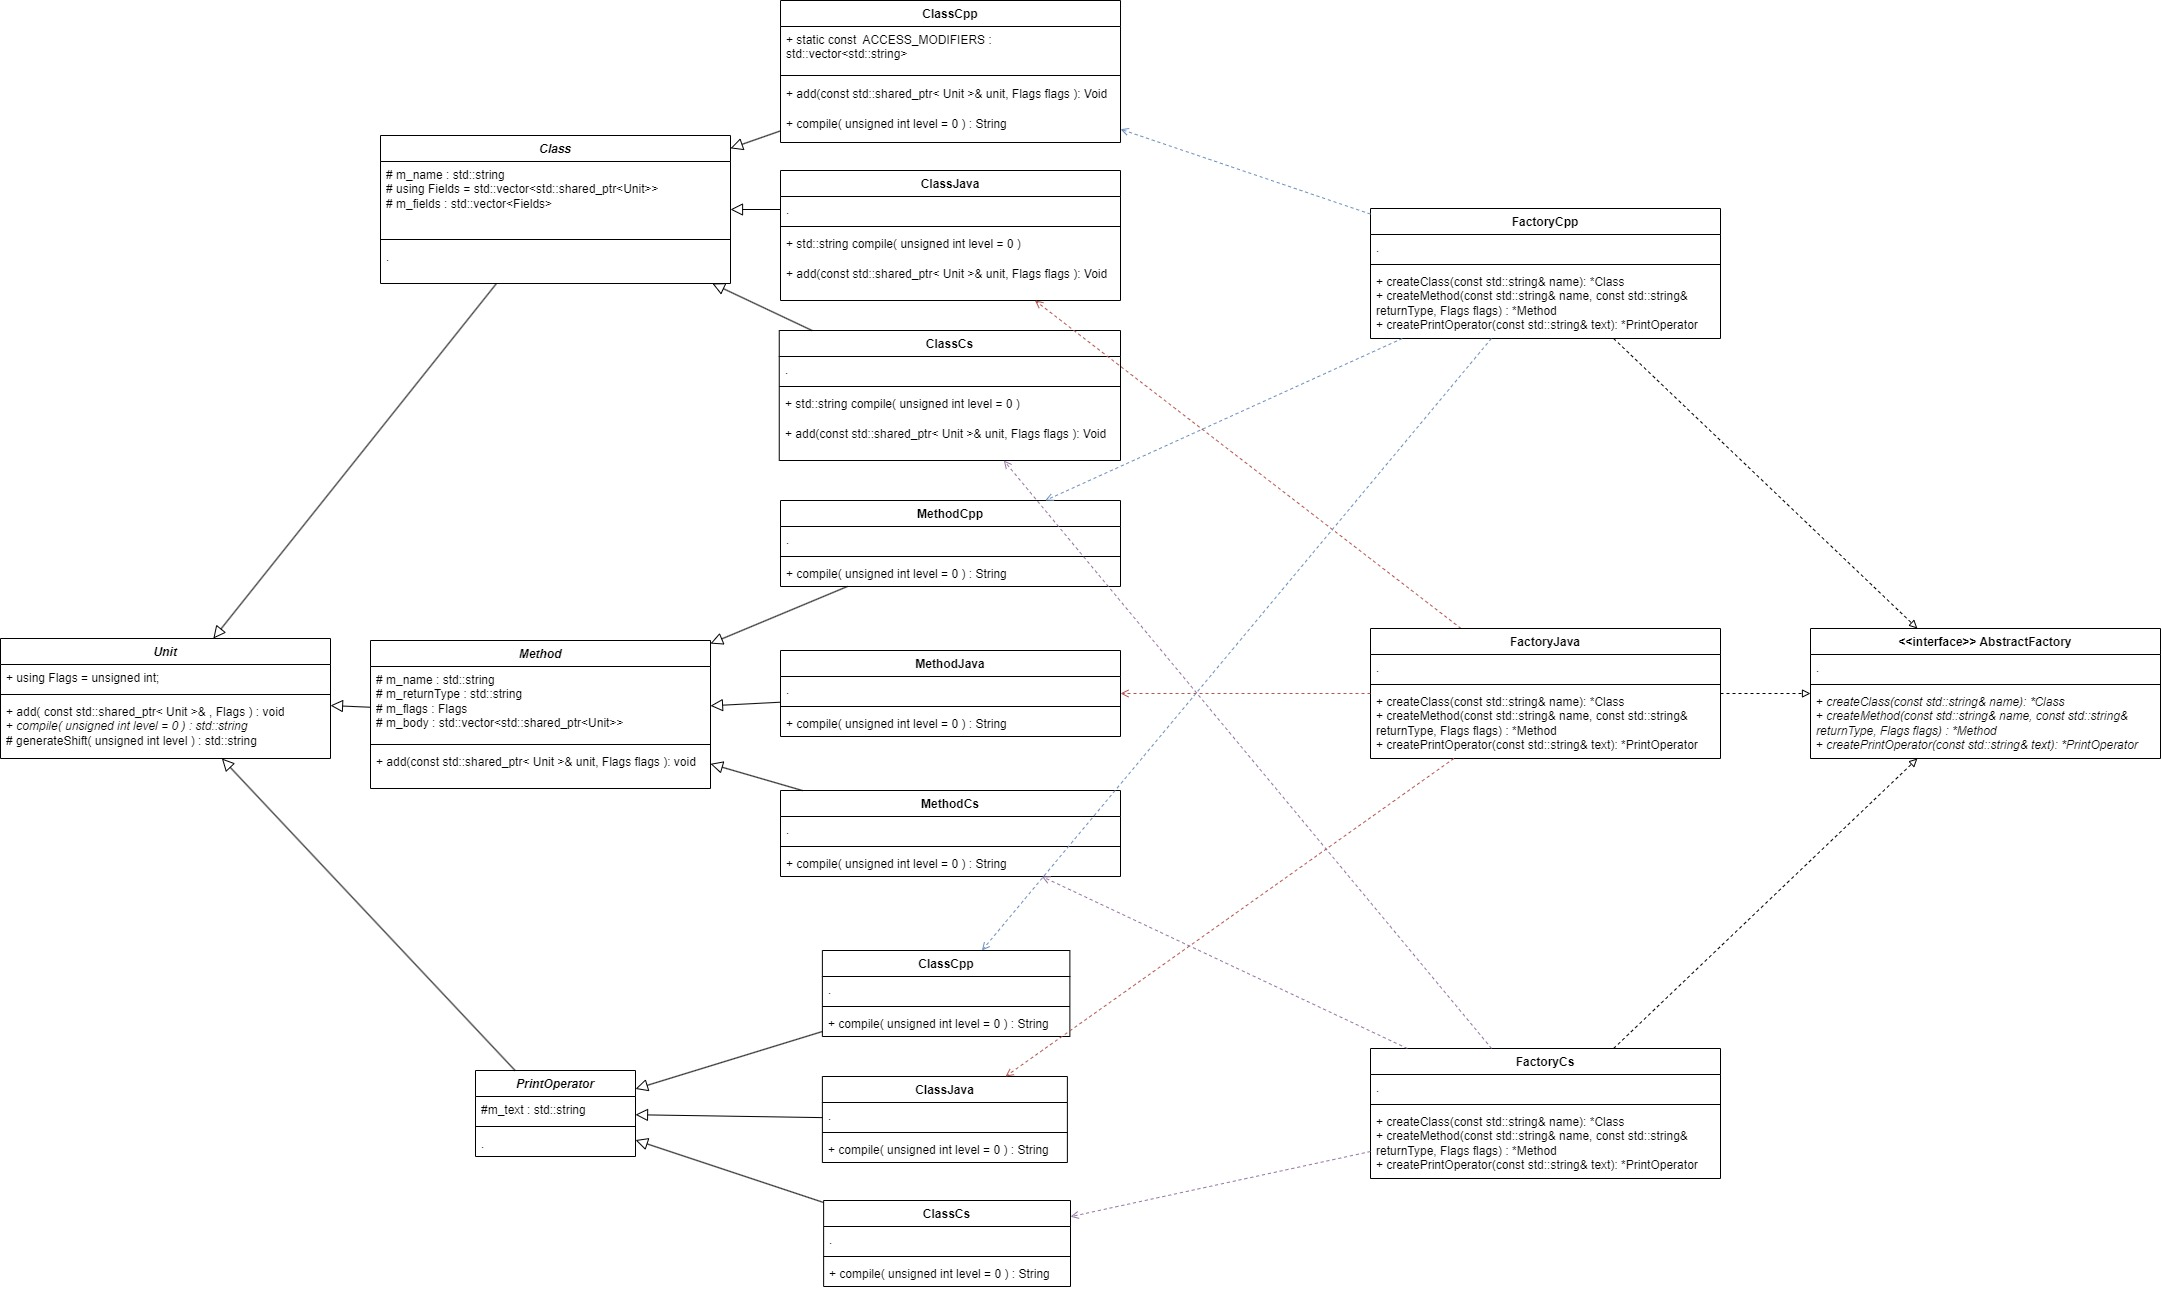
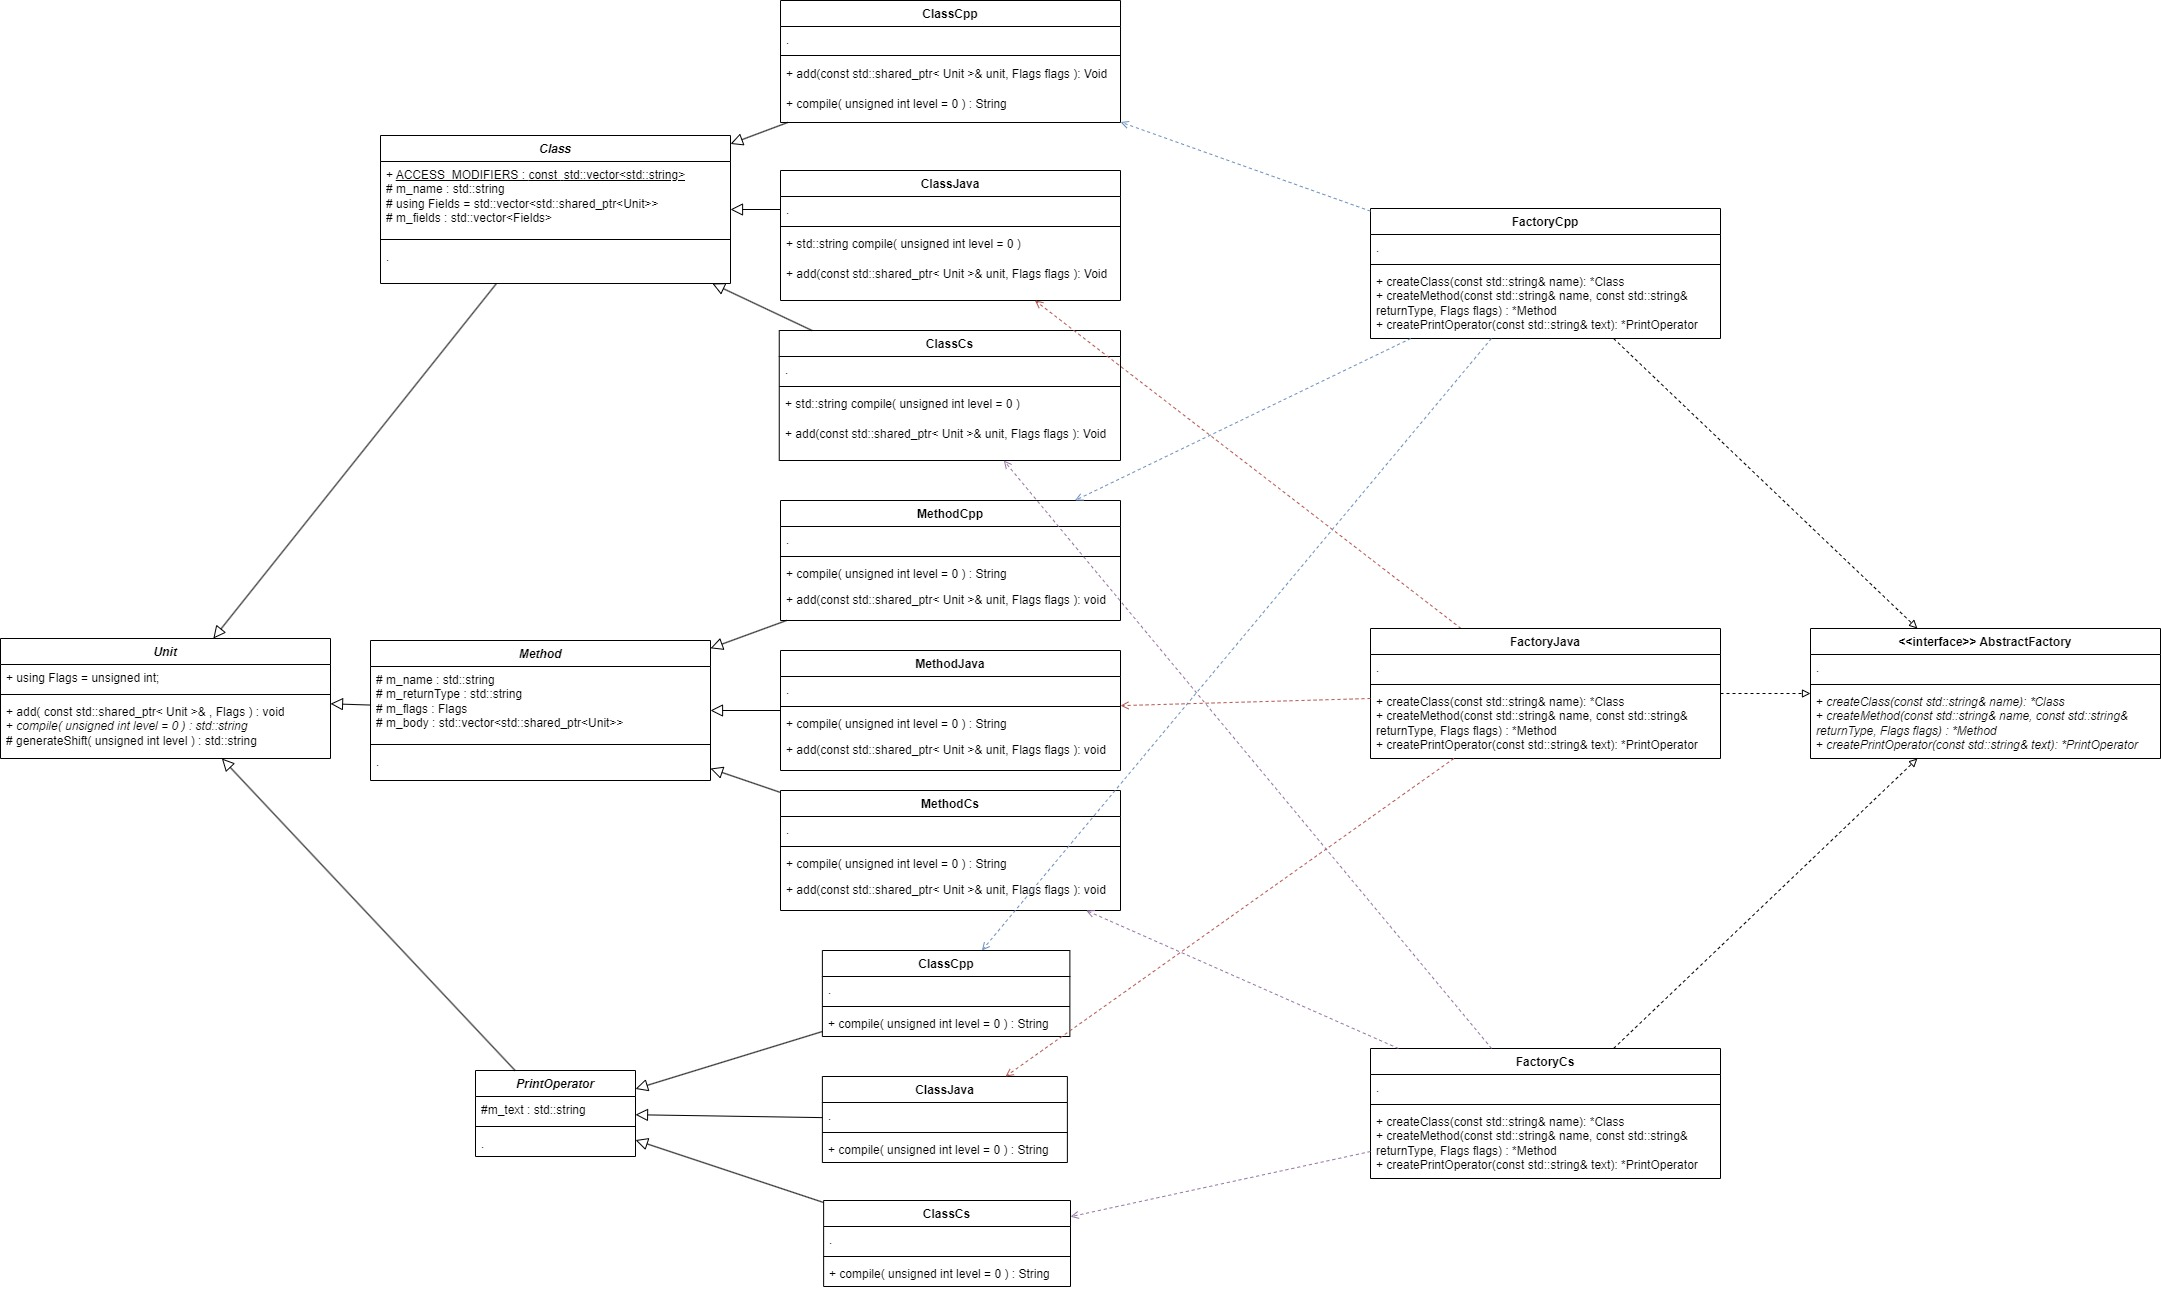
put add in children

diff --git a/classJava.h b/classJava.h
@@ -8,7 +8,7 @@
 class ClassJava : public Class
 {
 public:
-    static const std::vector< std::string > ACCESS_MODIFIERS ;   // инициализирован вне класса
+    //static const std::vector< std::string > ACCESS_MODIFIERS ;   // инициализирован вне класса
 
     explicit ClassJava(const std::string &name): Class(name, ACCESS_MODIFIERS.size())  {    // конструктор.  инициализирует имя класса
         m_fields.resize( ACCESS_MODIFIERS.size() );     // изменяет размер вектора на размер равный количеству модификаторов доступа
@@ -17,13 +17,14 @@ public:
 
     void add( const std::shared_ptr< Unit >& unit, Flags flags ) override    // функция для добавления член-данного или член-функции с своим модификатором доступа
     {
-        int accessModifier = PRIVATE;   // = 0
-        if( flags < ACCESS_MODIFIERS.size() )   // ? Проверяем что модификатор доступа является корректным
-        {
-            accessModifier = flags; // Ставим соответствующий модификатор доступа
+        int accessModifier = PRIVATE;   // по умолчанию private
+        if (flags & PROTECTED) {
+            accessModifier = PROTECTED;
         }
-
-        m_fields[ accessModifier ].push_back( unit );   // Заготавливаем для компиляции под определенный модификатор доступа
+        else if (flags & PUBLIC) {
+            accessModifier = PUBLIC;
+        }
+        m_fields[ accessModifier ].push_back( unit );
         /*
         * В условии и последующей строчке с push_back реализовано добавление член-данных и член-функций под определеннным модификатором.
         * Если отказаться от них, то перед каждым член-данным и член-функцией будет писаться модификатор доступа. Это как миниммум не похоже
@@ -59,6 +60,6 @@ private:
                                     // модификатору доступа.
 };
 
-const std::vector< std::string > ClassJava::ACCESS_MODIFIERS = { "public", "protected", "private" };
+//const std::vector< std::string > ClassJava::ACCESS_MODIFIERS = { "public", "protected", "private" };
 
 #endif // CLASSJAVA_H

diff --git a/classCs.h b/classCs.h
@@ -7,7 +7,7 @@
 class ClassCs : public Class
 {
 public:
-    static const std::vector< std::string > ACCESS_MODIFIERS ;   // инициализирован вне класса
+    //static const std::vector< std::string > ACCESS_MODIFIERS ;   // инициализирован вне класса
 
     explicit ClassCs(const std::string &name): Class(name, ACCESS_MODIFIERS.size())  {    // конструктор.  инициализирует имя класса
         m_fields.resize( ACCESS_MODIFIERS.size() );     // изменяет размер вектора на размер равный количеству модификаторов доступа
@@ -16,6 +16,24 @@ public:
 
     void add( const std::shared_ptr< Unit >& unit, Flags flags ) override    // функция для добавления член-данного или член-функции с своим модификатором доступа
     {
+        int accessModifier = INTERNAL;   // по умолчанию internal
+        if (flags & PRIVATE) {
+            accessModifier = PRIVATE;
+        }
+        else if (flags & PROTECTED) {
+            accessModifier = PROTECTED;
+        }
+        else if (flags & PUBLIC) {
+            accessModifier = PUBLIC;
+        }
+        else if (flags & PROTECTED_INTERNAL) {
+            accessModifier = PROTECTED_INTERNAL;
+        }
+        else if (flags & PRIVATE_PROTECTED) {
+            accessModifier = PRIVATE_PROTECTED;
+        }
+        m_fields[ accessModifier ].push_back( unit );
+        /*
         int accessModifier = PRIVATE;   // = 0
         if( flags < ACCESS_MODIFIERS.size() )   // ? Проверяем что модификатор доступа является корректным
         {
@@ -58,6 +76,6 @@ private:
                                     // модификатору доступа.
 };
 
-const std::vector< std::string > ClassCs::ACCESS_MODIFIERS = { "public", "protected", "private", "internal", "protected internal", "private protected" };
+//const std::vector< std::string > ClassCs::ACCESS_MODIFIERS = { "public", "protected", "private", "internal", "protected internal", "private protected" };
 
 #endif // CLASSCS_H

diff --git a/classCpp.h b/classCpp.h
@@ -8,16 +8,23 @@
 class ClassCpp : public Class
 {
 public:
-    static const std::vector< std::string > ACCESS_MODIFIERS ;   // инициализирован вне класса
+
 
     explicit ClassCpp(const std::string &name): Class(name, ACCESS_MODIFIERS.size())  {    // конструктор.  инициализирует имя класса
         m_fields.resize( ACCESS_MODIFIERS.size() );     // изменяет размер вектора на размер равный количеству модификаторов доступа
         m_name = name;
     }
 
-    void add( const std::shared_ptr< Unit >& unit, Flags flags ) override    // функция для добавления член-данного или член-функции с своим модификатором доступа
+    void add( const std::shared_ptr< Unit >& unit, Flags flags) override    // функция для добавления член-данного или член-функции с своим модификатором доступа
     {
-        int accessModifier = PRIVATE;   // = 0
+        int accessModifier = PRIVATE;   // по умолчанию private
+        if (flags & PROTECTED) {
+            accessModifier = PROTECTED;
+        } else if (flags & PUBLIC) {
+            accessModifier = PUBLIC;
+        }
+        m_fields[ accessModifier ].push_back( unit );
+        /*
         if( flags < ACCESS_MODIFIERS.size() )   // ? Проверяем что модификатор доступа является корректным
         {
             accessModifier = flags; // Ставим соответствующий модификатор доступа
@@ -60,6 +67,5 @@ private:
                                     // модификатору доступа.
 };
 
-const std::vector< std::string > ClassCpp::ACCESS_MODIFIERS = { "public", "protected", "private" };
 
 #endif // CLASSCPP_H

diff --git a/class.h b/class.h
@@ -9,15 +9,18 @@ class Class : public Unit{
 public:
     enum AccessModifier // Здесь определены всевозможные спецификаторы доступа
     {
-        PUBLIC,             // 0 C# C++ Java
-        PROTECTED,          // 1 C# C++ Java
-        PRIVATE,            // 2 C# C++ Java
-        INTERNAL,           // 3 C#
-        PROTECTED_INTERNAL, // 4 C#
-        PRIVATE_PROTECTED,  // 5 C#
+        PUBLIC,                     // C# C++ Java
+        PROTECTED,             // C# C++ Java
+        PRIVATE,               // C# C++ Java
+        INTERNAL,              // C#
+        PROTECTED_INTERNAL,    // C#
+        PRIVATE_PROTECTED,     // C#
     };
 
+    static const std::vector< std::string > ACCESS_MODIFIERS;   // инициализирован вне класса
+
     explicit Class(const std::string &name, size_t field_size) : m_name(name), m_fields(field_size) {}
+
 
 protected:
     std::string m_name; // имя класса
@@ -27,6 +30,7 @@ protected:
 
 };
 
+const std::vector< std::string > Class::ACCESS_MODIFIERS = { "public", "protected", "private", "internal", "protected internal", "private protected" };
 
 
 #endif // CLASS_H
